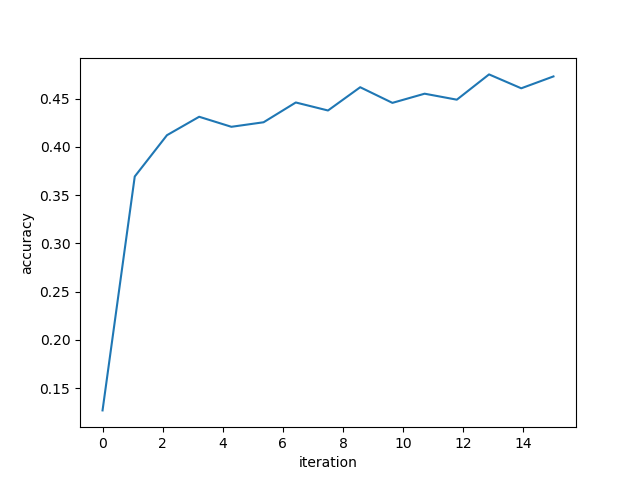
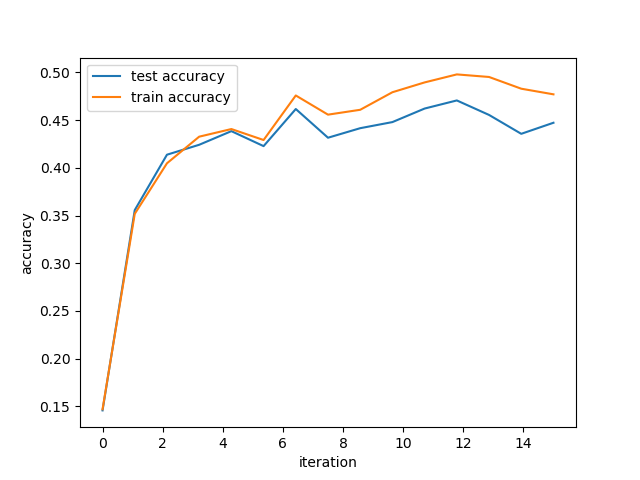
some images

diff --git a/assignment_1/code/train_convnet_pytorch.py b/assignment_1/code/train_convnet_pytorch.py
@@ -83,6 +83,8 @@ def train():
 
   accuracies = []
   losses = []
+  train_accs = []
+  train_losses = []
   for i in range(FLAGS.max_steps):
 
     mlp.model.train()
@@ -111,14 +113,14 @@ def train():
 
       with torch.no_grad():
 
-        x, y = cifar10['test'].next_batch(FLAGS.batch_size * 50)
+        x, y = cifar10['test'].next_batch(10000)
         if FLAGS.cuda:
           x = torch.tensor(x).cuda()
           y = torch.tensor(np.argmax(y, axis=1), dtype=torch.long).cuda()
         else:
           x = torch.tensor(x)
           y = torch.tensor(np.argmax(y, axis=1), dtype=torch.long)
-        
+
         out = mlp.forward(x)
         loss = loss_fn(out, y)
         acc = accuracy(out, y)
@@ -126,16 +128,36 @@ def train():
         accuracies.append(acc)
         losses.append(loss)
 
+        x, y = cifar10['train'].next_batch(10000)
+
+        if FLAGS.cuda:
+          x = torch.tensor(x).cuda()
+          y = torch.tensor(np.argmax(y, axis=1), dtype=torch.long).cuda()
+        else:
+          x = torch.tensor(x)
+          y = torch.tensor(np.argmax(y, axis=1), dtype=torch.long)
+
+        out = mlp.forward(x)
+        loss = loss_fn(out, y)
+        acc = accuracy(out, y)
+
+        train_accs.append(acc)
+        train_losses.append(loss)
+
       print("iteration: {} accuracy:{} loss: {}".format(i, acc, loss))
 
-
-  #plt.plot(np.linspace(0, FLAGS.max_steps / FLAGS.eval_freq, FLAGS.max_steps/ FLAGS.eval_freq), accuracies)
-  #plt.xlabel("iteration")
-  #plt.ylabel("accuracy")
-  #plt.savefig("conv-accuracy-{}-{}-{}.png".format(FLAGS.max_steps, FLAGS.learning_rate, FLAGS.batch_size))
-  plt.plot(np.linspace(0, FLAGS.max_steps/ FLAGS.eval_freq, FLAGS.max_steps/ FLAGS.eval_freq), losses)
+  plt.plot(np.linspace(0, FLAGS.max_steps / FLAGS.eval_freq, FLAGS.max_steps/ FLAGS.eval_freq), accuracies, label="test accuracy")
+  plt.plot(np.linspace(0, FLAGS.max_steps / FLAGS.eval_freq, FLAGS.max_steps/ FLAGS.eval_freq), train_accs, label="train accuracy")
+  plt.xlabel("iteration")
+  plt.ylabel("accuracy")
+  plt.legend()
+  plt.savefig("conv-accuracy-{}-{}-{}.png".format(FLAGS.max_steps, FLAGS.learning_rate, FLAGS.batch_size))
+  plt.clf()
+  plt.plot(np.linspace(0, FLAGS.max_steps/ FLAGS.eval_freq, FLAGS.max_steps/ FLAGS.eval_freq), losses, label="test loss")
+  plt.plot(np.linspace(0, FLAGS.max_steps/ FLAGS.eval_freq, FLAGS.max_steps/ FLAGS.eval_freq), train_losses, label="train loss")
   plt.xlabel("iteration")
   plt.ylabel("loss")
+  plt.legend()
   plt.savefig("conv-loss-{}-{}-{}.png".format(FLAGS.max_steps, FLAGS.learning_rate, FLAGS.batch_size))
   ########################
   # END OF YOUR CODE    #

diff --git a/assignment_1/code/train_mlp_pytorch.py b/assignment_1/code/train_mlp_pytorch.py
@@ -90,6 +90,8 @@ def train():
 
   accuracies = []
   losses = []
+  train_accs = []
+  train_losses = []
   for i in range(FLAGS.max_steps):
 
     x, y = cifar10['train'].next_batch(FLAGS.batch_size)
@@ -114,16 +116,31 @@ def train():
       accuracies.append(acc)
       losses.append(loss)
 
+      x, y = cifar10['train'].next_batch(10000)
+      x = torch.tensor(np.reshape(x, (10000, 3072)))
+      y = torch.tensor(np.argmax(y, axis=1), dtype=torch.long)
+      out = mlp.forward(x)
+      loss = loss_fn(out, y)
+
+      acc = accuracy(out, y)
+      train_accs.append(acc)
+      train_losses.append(loss)
+
       print("iteration: {} accuracy:{} loss: {}".format(i, acc, loss))
 
 
-  plt.plot(np.linspace(0, FLAGS.max_steps / FLAGS.eval_freq, FLAGS.max_steps/ FLAGS.eval_freq), accuracies)
+  plt.plot(np.linspace(0, FLAGS.max_steps / FLAGS.eval_freq, FLAGS.max_steps/ FLAGS.eval_freq), accuracies, label="test accuracy")
+  plt.plot(np.linspace(0, FLAGS.max_steps / FLAGS.eval_freq, FLAGS.max_steps/ FLAGS.eval_freq), train_accs, label="train accuracy")
   plt.xlabel("iteration")
   plt.ylabel("accuracy")
+  plt.legend()
   plt.savefig("pytorch-accuracy-{}-{}-{}.png".format(FLAGS.max_steps, FLAGS.learning_rate, FLAGS.batch_size))
-  plt.plot(np.linspace(0, FLAGS.max_steps/ FLAGS.eval_freq, FLAGS.max_steps/ FLAGS.eval_freq), losses)
+  plt.clf()
+  plt.plot(np.linspace(0, FLAGS.max_steps/ FLAGS.eval_freq, FLAGS.max_steps/ FLAGS.eval_freq), losses, label="test loss")
+  plt.plot(np.linspace(0, FLAGS.max_steps/ FLAGS.eval_freq, FLAGS.max_steps/ FLAGS.eval_freq), train_losses, label="train loss")
   plt.xlabel("iteration")
   plt.ylabel("loss")
+  plt.legend()
   plt.savefig("pytorch-loss-{}-{}-{}.png".format(FLAGS.max_steps, FLAGS.learning_rate, FLAGS.batch_size))
   ########################
   # END OF YOUR CODE    #

diff --git a/assignment_1/code/train_mlp_numpy.py b/assignment_1/code/train_mlp_numpy.py
@@ -12,6 +12,7 @@ import os
 from mlp_numpy import MLP
 from modules import CrossEntropyModule, LinearModule
 import cifar10_utils
+import matplotlib.pyplot as plt
 
 import torch
 
@@ -91,7 +92,7 @@ def train():
 
   accuracies = []
   losses = []
-  train_accuracies = []
+  train_accs = []
   train_losses = []
 
   for i in range(FLAGS.max_steps):
@@ -118,7 +119,7 @@ def train():
       loss = crs.forward(out, y)
 
       acc = accuracy(out, y)
-      train_accuracies.append(acc)
+      train_accs.append(acc)
       train_losses.append(loss)
 
       print("TRAINING - iteration: {} accuracy:{} loss: {}".format(i, acc, loss))
@@ -133,7 +134,19 @@ def train():
       losses.append(loss)
       print("iteration: {} accuracy:{} loss: {}".format(i, acc, loss))
 
-
+  plt.plot(np.linspace(0, FLAGS.max_steps / FLAGS.eval_freq, FLAGS.max_steps/ FLAGS.eval_freq), accuracies, label="test accuracy")
+  plt.plot(np.linspace(0, FLAGS.max_steps / FLAGS.eval_freq, FLAGS.max_steps/ FLAGS.eval_freq), train_accs, label="train accuracy")
+  plt.xlabel("iteration")
+  plt.ylabel("accuracy")
+  plt.legend()
+  plt.savefig("np-accuracy-{}-{}-{}.png".format(FLAGS.max_steps, FLAGS.learning_rate, FLAGS.batch_size))
+  plt.clf()
+  plt.plot(np.linspace(0, FLAGS.max_steps/ FLAGS.eval_freq, FLAGS.max_steps/ FLAGS.eval_freq), losses, label="test loss")
+  plt.plot(np.linspace(0, FLAGS.max_steps/ FLAGS.eval_freq, FLAGS.max_steps/ FLAGS.eval_freq), train_losses, label="train loss")
+  plt.xlabel("iteration")
+  plt.ylabel("loss")
+  plt.legend()
+  plt.savefig("np-loss-{}-{}-{}.png".format(FLAGS.max_steps, FLAGS.learning_rate, FLAGS.batch_size))
   ########################
   # END OF YOUR CODE    #
   #######################
